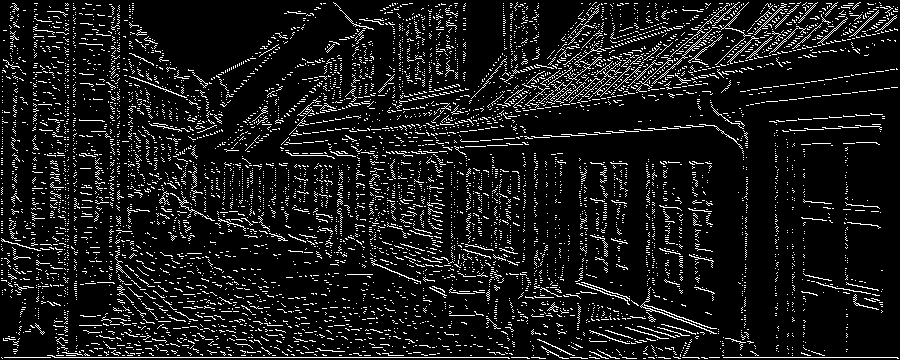
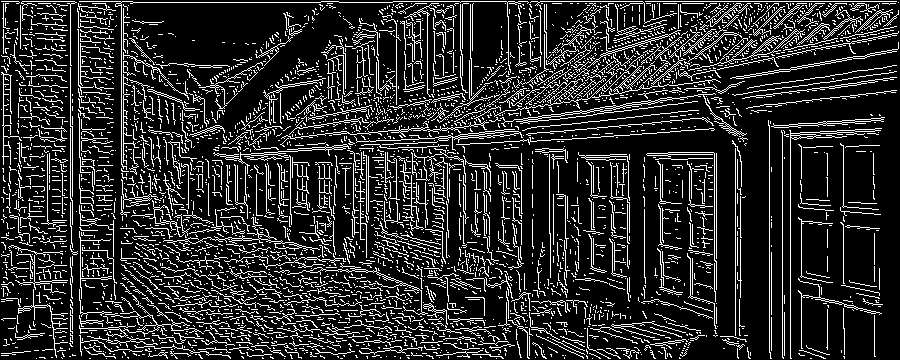
slower convolve

Changed region(s): [[0.0, 0.0, 1.0, 1.0]]

diff --git a/benchmarks/canny_edge_detector/procedural_c#/Program.cs b/benchmarks/canny_edge_detector/procedural_c#/Program.cs
@@ -1,0 +1,54 @@
+using System;
+using System.Drawing;
+
+namespace procedural_c_
+{
+	class Program
+	{
+		static void Main(string[] args)
+		{
+			var image = new Bitmap("blur.png");
+			double[,] hoKernel = { { 1.0, 2.0, 1.0 }, { 0.0, 0.0, 0.0 }, { -1.0, -2.0, -1.0 } };
+
+			var test = Convolve(image, hoKernel);
+			test.Save("test.png");
+		}
+
+		static Bitmap Convolve(Bitmap image, double[,] kernel)
+		{
+			var test = new Bitmap(image.Width, image.Height);
+			var halfKernel = kernel.GetLength(0) / 2;
+			for (int x = 0; x < image.Width; x++)
+			{
+				for (int y = 0; y < image.Height; y++)
+				{
+					var sum = 0.0;
+					for (int kx = -halfKernel; kx <= halfKernel; kx++)
+					{
+						for (int ky = -halfKernel; ky <= halfKernel; ky++)
+						{
+							var posX = x + kx;
+							var posY = y + ky;
+							// not edges
+							if (!(posX <= 0 || posX >= image.Width - 1 || posY <= 0 || posY >= image.Height - 1))
+							{
+								sum += (((double)image.GetPixel(posX, posY).R) * (kernel[kx + halfKernel, ky + halfKernel]));
+							}
+						}
+					}
+					if (sum > 255.0)
+					{
+						sum = 255.0;
+					}
+					else if (sum < 0.0)
+					{
+						sum = 0.0;
+					}
+
+					test.SetPixel(x, y, Color.FromArgb((int)sum, (int)sum, (int)sum));
+				}
+			}
+			return test;
+		}
+	}
+}
